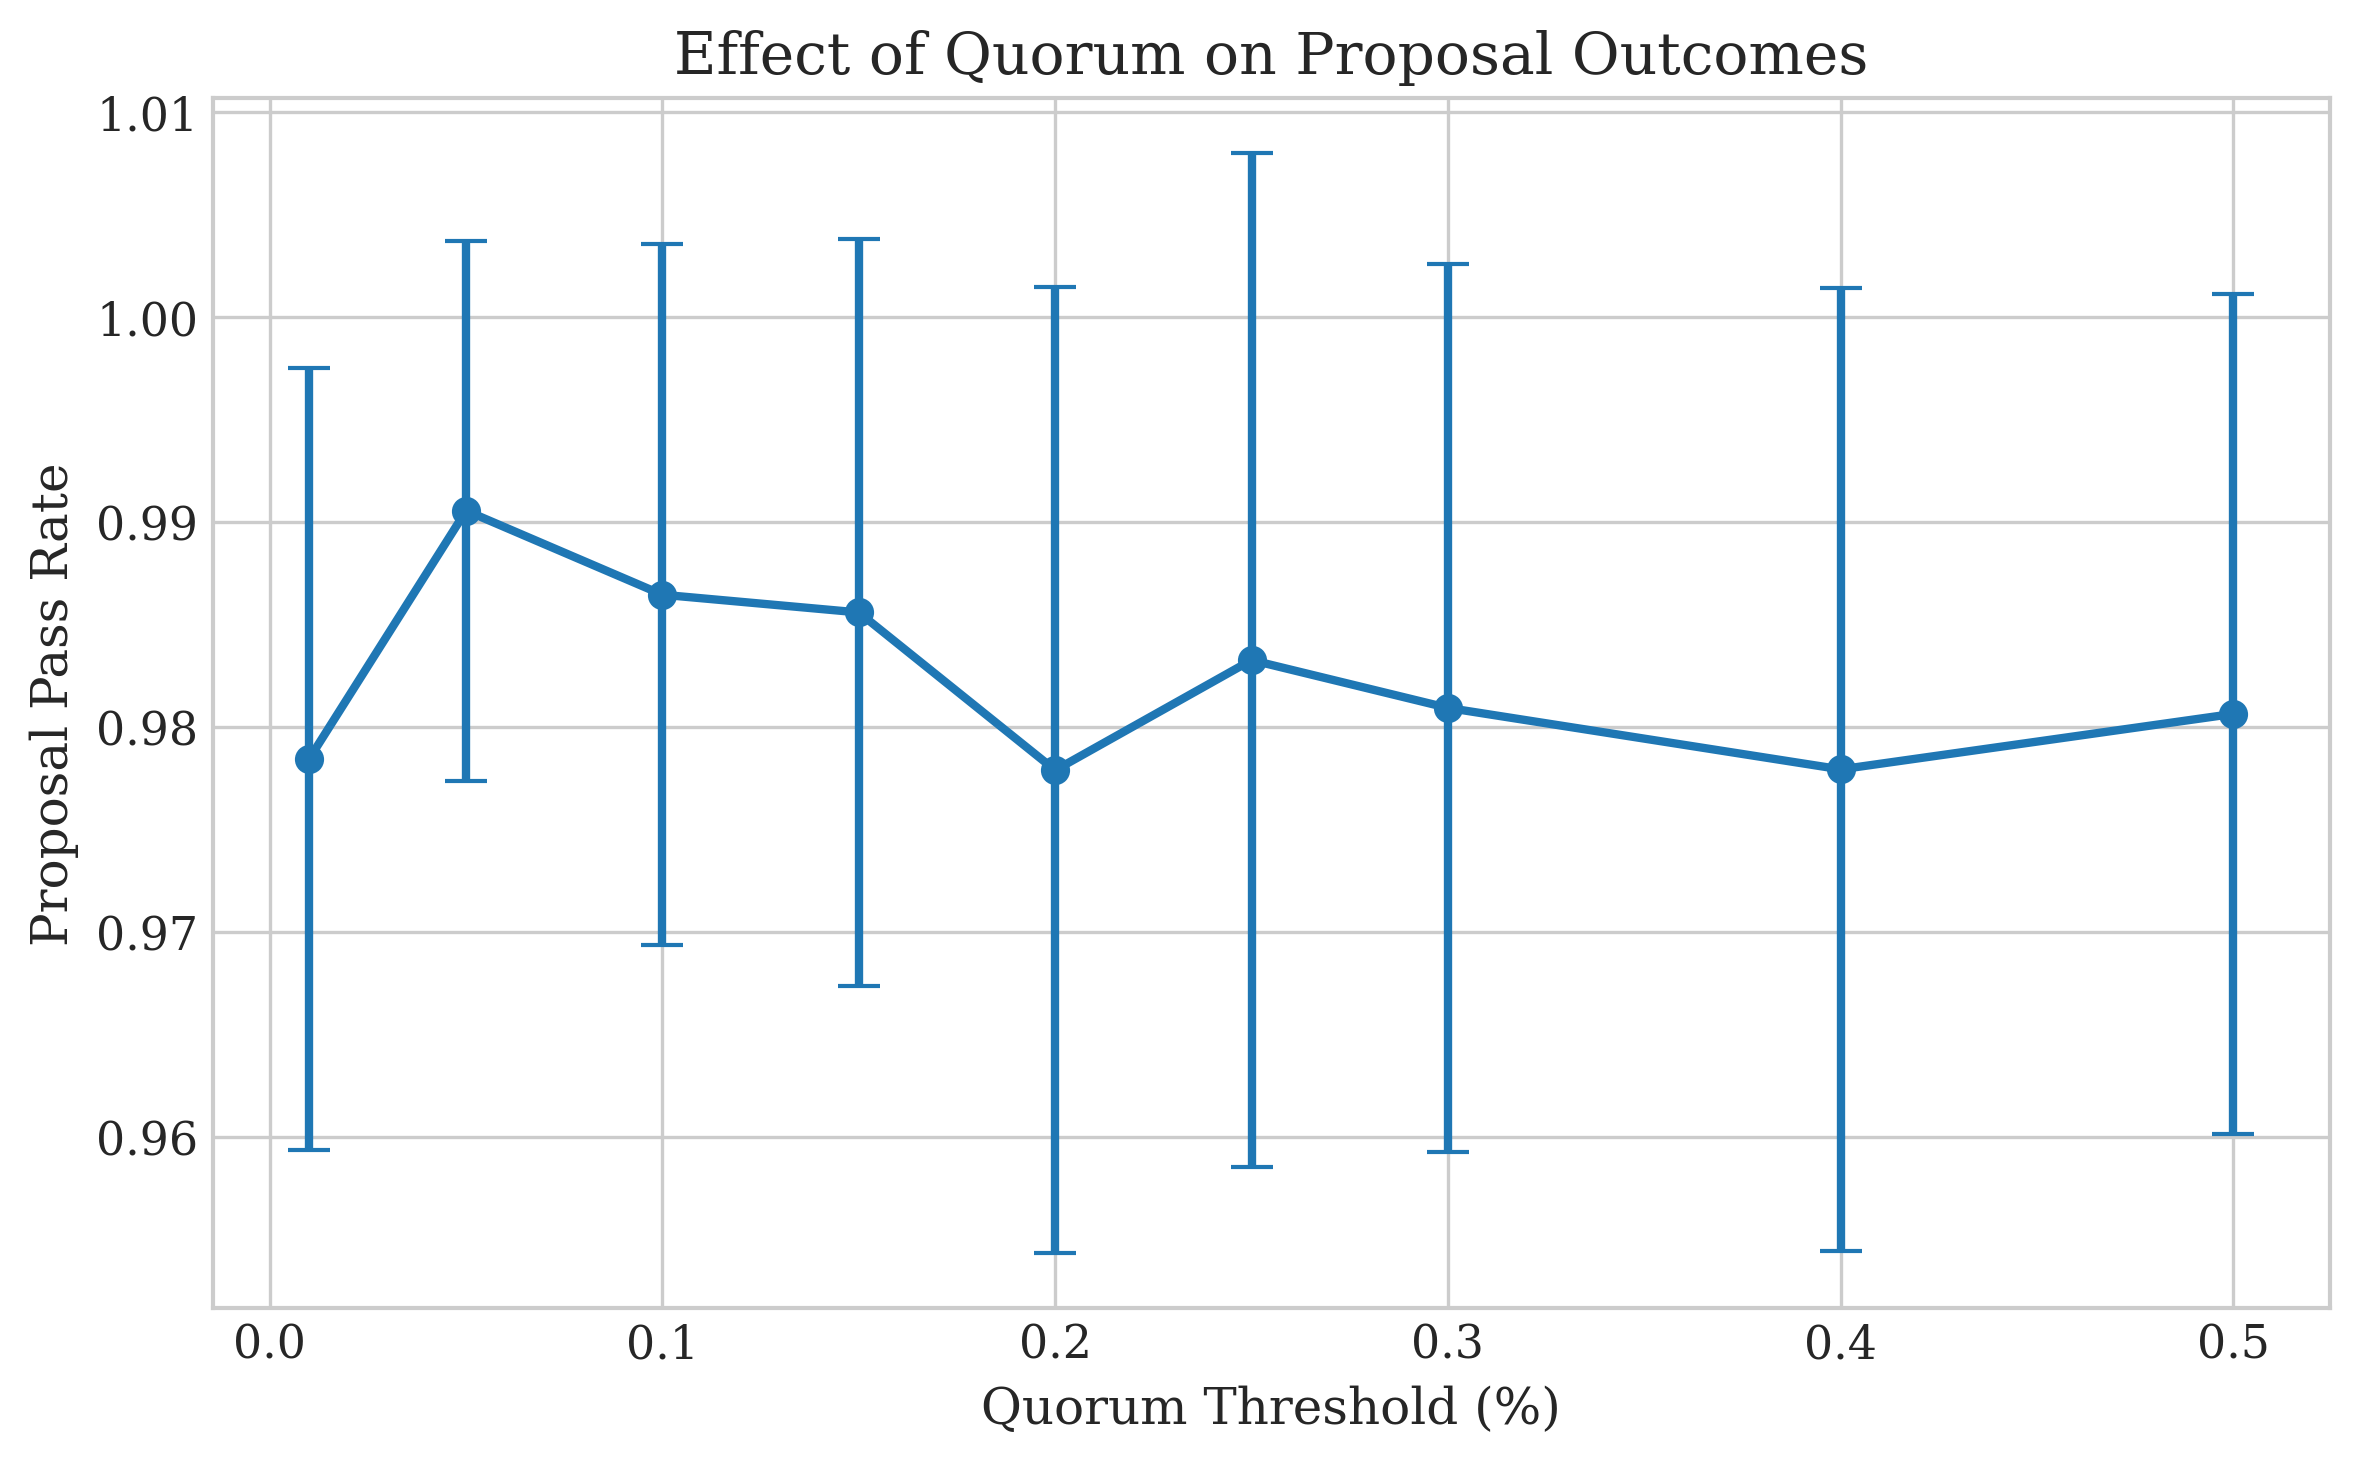
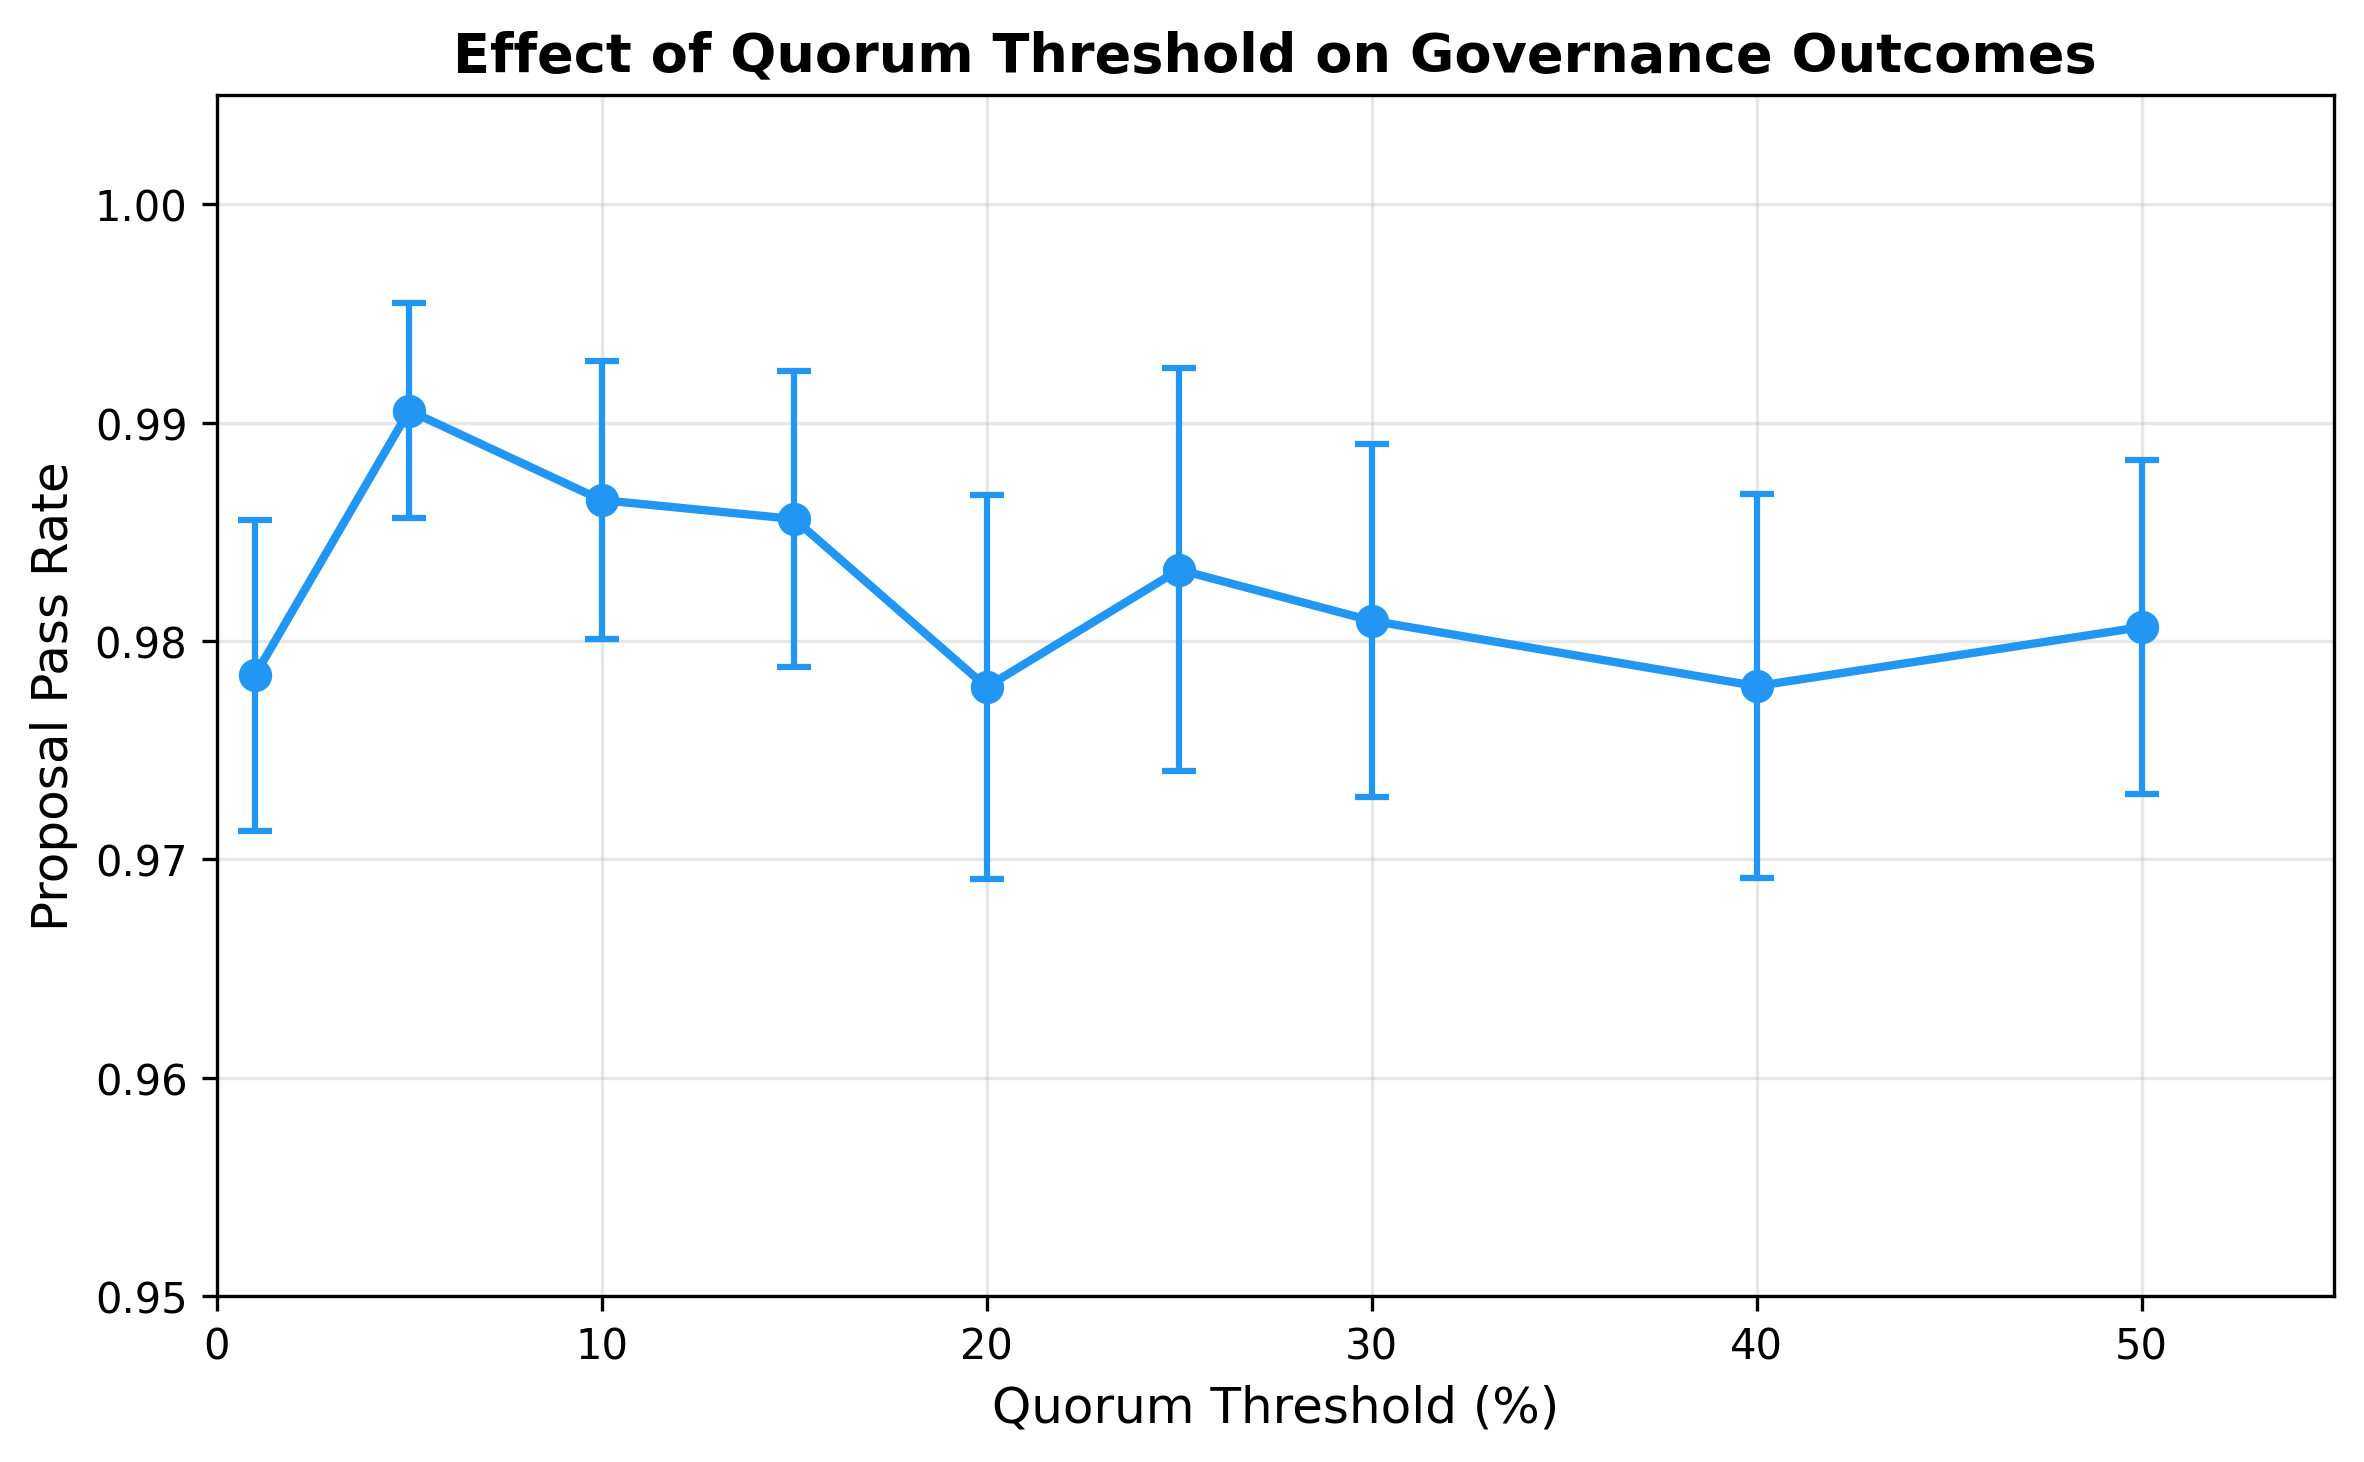
Regenerate paper figures from current experiment data and fix captions
Figures now match actual 2,730-run results instead of stale placeholder data.
Added scripts/regenerate_paper_figures.py for reproducibility.

Changed region(s): [[0.0, 0.0, 0.9903, 0.985], [0.2785, 0.7695, 0.3095, 0.8003]]

diff --git a/scripts/regenerate_paper_figures.py b/scripts/regenerate_paper_figures.py
@@ -1,0 +1,250 @@
+"""Regenerate paper figures from current experiment data."""
+import csv
+import os
+import sys
+
+try:
+    import matplotlib
+    matplotlib.use('Agg')
+    import matplotlib.pyplot as plt
+    import numpy as np
+except ImportError:
+    print("ERROR: matplotlib and numpy required. Install with: pip install matplotlib numpy")
+    sys.exit(1)
+
+RESULTS_DIR = os.path.join(os.path.dirname(__file__), '..', 'results', 'paper')
+FIGURES_DIR = os.path.join(os.path.dirname(__file__), '..', 'paper', 'figures')
+
+def read_csv(path):
+    with open(path, 'r') as f:
+        reader = csv.DictReader(f)
+        return list(reader)
+
+def fig1_quorum_passrate():
+    """Figure 2: Quorum threshold vs pass rate (Experiment 03)."""
+    data = read_csv(os.path.join(RESULTS_DIR, '03-sensitivity-quorum', 'stats.csv'))
+
+    quorums = []
+    means = []
+    ci_lows = []
+    ci_highs = []
+
+    for row in data:
+        q = float(row['sweep_value'])
+        quorums.append(q * 100)  # Convert to percentage
+        m = float(row['Proposal Pass Rate_mean'])
+        means.append(m)
+        ci_lows.append(float(row['Proposal Pass Rate_ci95_lower']))
+        ci_highs.append(float(row['Proposal Pass Rate_ci95_upper']))
+
+    fig, ax = plt.subplots(figsize=(8, 5))
+
+    errors_low = [m - cl for m, cl in zip(means, ci_lows)]
+    errors_high = [ch - m for m, ch in zip(means, ci_highs)]
+
+    ax.errorbar(quorums, means, yerr=[errors_low, errors_high],
+                fmt='o-', color='#2196F3', capsize=4, capthick=1.5,
+                markersize=7, linewidth=2, elinewidth=1.5)
+
+    ax.set_xlabel('Quorum Threshold (%)', fontsize=12)
+    ax.set_ylabel('Proposal Pass Rate', fontsize=12)
+    ax.set_title('Effect of Quorum Threshold on Governance Outcomes', fontsize=13, fontweight='bold')
+
+    ax.set_ylim(0.95, 1.005)
+    ax.set_xlim(0, 55)
+    ax.grid(True, alpha=0.3)
+    ax.tick_params(labelsize=10)
+
+    fig.tight_layout()
+    out_path = os.path.join(FIGURES_DIR, 'quorum_passrate.png')
+    fig.savefig(out_path, dpi=300, bbox_inches='tight')
+    plt.close(fig)
+    print(f"  Saved: {out_path}")
+    print(f"  Data: quorum={quorums}, pass_rate={[f'{m:.3f}' for m in means]}")
+
+
+def fig2_scale_participation():
+    """Figure 3: DAO size vs participation rate (Experiment 08)."""
+    data = read_csv(os.path.join(RESULTS_DIR, '08-scale-sweep', 'stats.csv'))
+
+    sizes = []
+    means = []
+    ci_lows = []
+    ci_highs = []
+
+    for row in data:
+        s = int(float(row['sweep_value']))
+        sizes.append(s)
+        m = float(row['Voter Participation Rate_mean'])
+        means.append(m)
+        ci_lows.append(float(row['Voter Participation Rate_ci95_lower']))
+        ci_highs.append(float(row['Voter Participation Rate_ci95_upper']))
+
+    fig, ax = plt.subplots(figsize=(8, 5))
+
+    errors_low = [m - cl for m, cl in zip(means, ci_lows)]
+    errors_high = [ch - m for m, ch in zip(means, ci_highs)]
+
+    ax.errorbar(sizes, means, yerr=[errors_low, errors_high],
+                fmt='o-', color='#4CAF50', capsize=4, capthick=1.5,
+                markersize=7, linewidth=2, elinewidth=1.5)
+
+    # Add shaded region for CI
+    ax.fill_between(sizes, ci_lows, ci_highs, alpha=0.15, color='#4CAF50')
+
+    ax.set_xlabel('Organization Size (members)', fontsize=12)
+    ax.set_ylabel('Voter Participation Rate', fontsize=12)
+    ax.set_title('Participation Decay with Organizational Scale', fontsize=13, fontweight='bold')
+
+    ax.set_ylim(0.18, 0.30)
+    ax.grid(True, alpha=0.3)
+    ax.tick_params(labelsize=10)
+
+    fig.tight_layout()
+    out_path = os.path.join(FIGURES_DIR, 'scale_participation.png')
+    fig.savefig(out_path, dpi=300, bbox_inches='tight')
+    plt.close(fig)
+    print(f"  Saved: {out_path}")
+    print(f"  Data: sizes={sizes}, participation={[f'{m:.3f}' for m in means]}")
+
+
+def fig3_voting_comparison():
+    """Figure 4: Voting mechanism comparison (Experiment 09)."""
+    data = read_csv(os.path.join(RESULTS_DIR, '09-voting-mechanisms', 'stats.csv'))
+
+    # Parse configs - group by mechanism, use quorum=0.04 for main comparison
+    mechanisms = []
+    pass_rates = []
+    pass_rate_errs = []
+    margins = []
+    margin_errs = []
+    whale_inf = []
+    whale_errs = []
+    capture = []
+    capture_errs = []
+    quorum_reach = []
+    quorum_reach_errs = []
+
+    for row in data:
+        sv = row['sweep_value']
+        mechanisms.append(sv)
+
+        pr_m = float(row['Proposal Pass Rate_mean'])
+        pr_se = float(row['Proposal Pass Rate_se'])
+        pass_rates.append(pr_m)
+        pass_rate_errs.append(pr_se * 1.96)
+
+        mv_m = float(row['Avg Margin of Victory_mean'])
+        mv_se = float(row['Avg Margin of Victory_se'])
+        margins.append(mv_m)
+        margin_errs.append(mv_se * 1.96)
+
+        wi_m = float(row['Whale Influence_mean'])
+        wi_se = float(row['Whale Influence_se'])
+        whale_inf.append(wi_m)
+        whale_errs.append(wi_se * 1.96)
+
+        cr_m = float(row['Governance Capture Risk_mean'])
+        cr_se = float(row['Governance Capture Risk_se'])
+        capture.append(cr_m)
+        capture_errs.append(cr_se * 1.96)
+
+        qr_m = float(row['Quorum Reach Rate_mean'])
+        qr_se = float(row['Quorum Reach Rate_se'])
+        quorum_reach.append(qr_m)
+        quorum_reach_errs.append(qr_se * 1.96)
+
+    # Use only quorum=0.04 rows for cleaner comparison
+    labels_04 = []
+    pr_04 = []
+    pr_err_04 = []
+    mv_04 = []
+    mv_err_04 = []
+    wi_04 = []
+    wi_err_04 = []
+    qr_04 = []
+    qr_err_04 = []
+
+    for i, sv in enumerate(mechanisms):
+        if '0.04' in sv:
+            label = sv.split('=')[1].split('_')[0].capitalize()
+            labels_04.append(label)
+            pr_04.append(pass_rates[i])
+            pr_err_04.append(pass_rate_errs[i])
+            mv_04.append(margins[i])
+            mv_err_04.append(margin_errs[i])
+            wi_04.append(whale_inf[i])
+            wi_err_04.append(whale_errs[i])
+            qr_04.append(quorum_reach[i])
+            qr_err_04.append(quorum_reach_errs[i])
+
+    fig, axes = plt.subplots(1, 4, figsize=(16, 5))
+
+    x = np.arange(len(labels_04))
+    colors = ['#2196F3', '#FF9800', '#4CAF50']
+
+    # Pass Rate
+    bars = axes[0].bar(x, pr_04, yerr=pr_err_04, capsize=4, color=colors, alpha=0.85, edgecolor='white')
+    axes[0].set_ylabel('Pass Rate', fontsize=11)
+    axes[0].set_title('Pass Rate', fontsize=12, fontweight='bold')
+    axes[0].set_ylim(0.95, 1.01)
+    axes[0].set_xticks(x)
+    axes[0].set_xticklabels(labels_04, fontsize=10)
+    axes[0].grid(axis='y', alpha=0.3)
+
+    # Margin of Victory
+    axes[1].bar(x, mv_04, yerr=mv_err_04, capsize=4, color=colors, alpha=0.85, edgecolor='white')
+    axes[1].set_ylabel('Margin of Victory', fontsize=11)
+    axes[1].set_title('Margin of Victory', fontsize=12, fontweight='bold')
+    axes[1].set_xticks(x)
+    axes[1].set_xticklabels(labels_04, fontsize=10)
+    axes[1].grid(axis='y', alpha=0.3)
+
+    # Whale Influence
+    axes[2].bar(x, wi_04, yerr=wi_err_04, capsize=4, color=colors, alpha=0.85, edgecolor='white')
+    axes[2].set_ylabel('Whale Influence', fontsize=11)
+    axes[2].set_title('Whale Influence', fontsize=12, fontweight='bold')
+    axes[2].set_xticks(x)
+    axes[2].set_xticklabels(labels_04, fontsize=10)
+    axes[2].grid(axis='y', alpha=0.3)
+
+    # Quorum Reach Rate
+    axes[3].bar(x, qr_04, yerr=qr_err_04, capsize=4, color=colors, alpha=0.85, edgecolor='white')
+    axes[3].set_ylabel('Quorum Reach Rate', fontsize=11)
+    axes[3].set_title('Quorum Reach', fontsize=12, fontweight='bold')
+    axes[3].set_xticks(x)
+    axes[3].set_xticklabels(labels_04, fontsize=10)
+    axes[3].grid(axis='y', alpha=0.3)
+
+    fig.suptitle('Voting Mechanism Comparison ($N=30$ per config, quorum $= 4\\%$)',
+                 fontsize=14, fontweight='bold', y=1.02)
+    fig.tight_layout()
+    out_path = os.path.join(FIGURES_DIR, 'voting_comparison.png')
+    fig.savefig(out_path, dpi=300, bbox_inches='tight')
+    plt.close(fig)
+    print(f"  Saved: {out_path}")
+    print(f"  Labels: {labels_04}")
+    print(f"  Pass rates: {[f'{p:.3f}' for p in pr_04]}")
+    print(f"  Margins: {[f'{m:.3f}' for m in mv_04]}")
+    print(f"  Quorum reach: {[f'{q:.3f}' for q in qr_04]}")
+
+
+if __name__ == '__main__':
+    os.makedirs(FIGURES_DIR, exist_ok=True)
+
+    print("Regenerating paper figures from experiment data...")
+    print()
+
+    print("[1/3] Quorum pass rate (Experiment 03):")
+    fig1_quorum_passrate()
+    print()
+
+    print("[2/3] Scale participation (Experiment 08):")
+    fig2_scale_participation()
+    print()
+
+    print("[3/3] Voting mechanism comparison (Experiment 09):")
+    fig3_voting_comparison()
+    print()
+
+    print("Done! All figures regenerated from current data.")

diff --git a/paper/sections/results.tex b/paper/sections/results.tex
@@ -22,10 +22,10 @@ Participation calibration targets significantly affect voter engagement. Across 
 Quorum thresholds exhibit a non-linear relationship with governance outcomes. Sweeping quorum from $1\%$ to $50\%$ ($N=150$ runs):
 
 \begin{itemize}
-    \item \textbf{Pass rate}: Peaks at $\approx 99\%$ for quorum values of $5$--$10\%$, declining to $98.1\%$ at $50\%$ quorum.
-    \item \textbf{Turnout}: Stable at $22$--$23\%$ across all quorum settings, suggesting that quorum thresholds do not themselves drive participation.
-    \item \textbf{Time to decision}: $72$--$76$ steps regardless of quorum, indicating that decision speed is robust to quorum variation.
-    \item \textbf{Critical threshold}: An inflection point appears at $20\%$ quorum, where governance effectiveness begins to decline.
+    \item \textbf{Pass rate}: Remarkably stable at $97.8$--$99.1\%$ across all quorum values, with a slight peak at $5\%$ quorum ($99.1\%$). Pass rate measures proposals that reach quorum, so stability reflects consistent voter support.
+    \item \textbf{Quorum reach rate}: The critical metric---drops sharply from $100\%$ at $5\%$ quorum to $23.9\%$ at $20\%$ and $0\%$ at $40\%$+. Above $15\%$ quorum, most proposals expire without reaching quorum.
+    \item \textbf{Turnout}: Stable at $22$--$23\%$ across all quorum settings, confirming that quorum thresholds do not themselves drive participation.
+    \item \textbf{Critical threshold}: An inflection point in quorum reach appears at $15$--$20\%$, where the gap between required and actual participation causes governance gridlock.
 \end{itemize}
 
 Figure~\ref{fig:quorum-passrate} illustrates the relationship between quorum threshold and proposal pass rate.
@@ -33,7 +33,7 @@ Figure~\ref{fig:quorum-passrate} illustrates the relationship between quorum thr
 \begin{figure}[htbp]
     \centering
     \includegraphics[width=0.8\textwidth]{figures/quorum_passrate}
-    \caption{Proposal pass rate as a function of quorum threshold. Pass rates remain high ($>98\%$) for quorum values up to $10\%$, with an inflection point near $20\%$.}
+    \caption{Proposal pass rate as a function of quorum threshold. Pass rates remain stable ($97.8$--$99.1\%$) across all quorum values from $1\%$ to $50\%$, with a slight peak near $5\%$. The real constraint is quorum reach rate (not shown), which drops sharply above $15\%$.}
     \label{fig:quorum-passrate}
 \end{figure}
 
@@ -131,6 +131,6 @@ Quorum reach rate shows the most dramatic mechanism-dependent variation ($F(5,17
 \begin{figure}[htbp]
     \centering
     \includegraphics[width=0.8\textwidth]{figures/voting_comparison}
-    \caption{Comparison of voting mechanisms across key governance metrics. Quadratic voting achieves the highest pass rates and margins of victory while maintaining comparable capture risk to majority voting.}
+    \caption{Voting mechanism comparison across four governance metrics (quorum $= 4\%$, $N=30$ per mechanism). Quadratic voting achieves the highest pass rates and margins of victory. Conviction voting shows substantially lower quorum reach ($69.3\%$ vs $\approx 100\%$).}
     \label{fig:voting-comparison}
 \end{figure}
